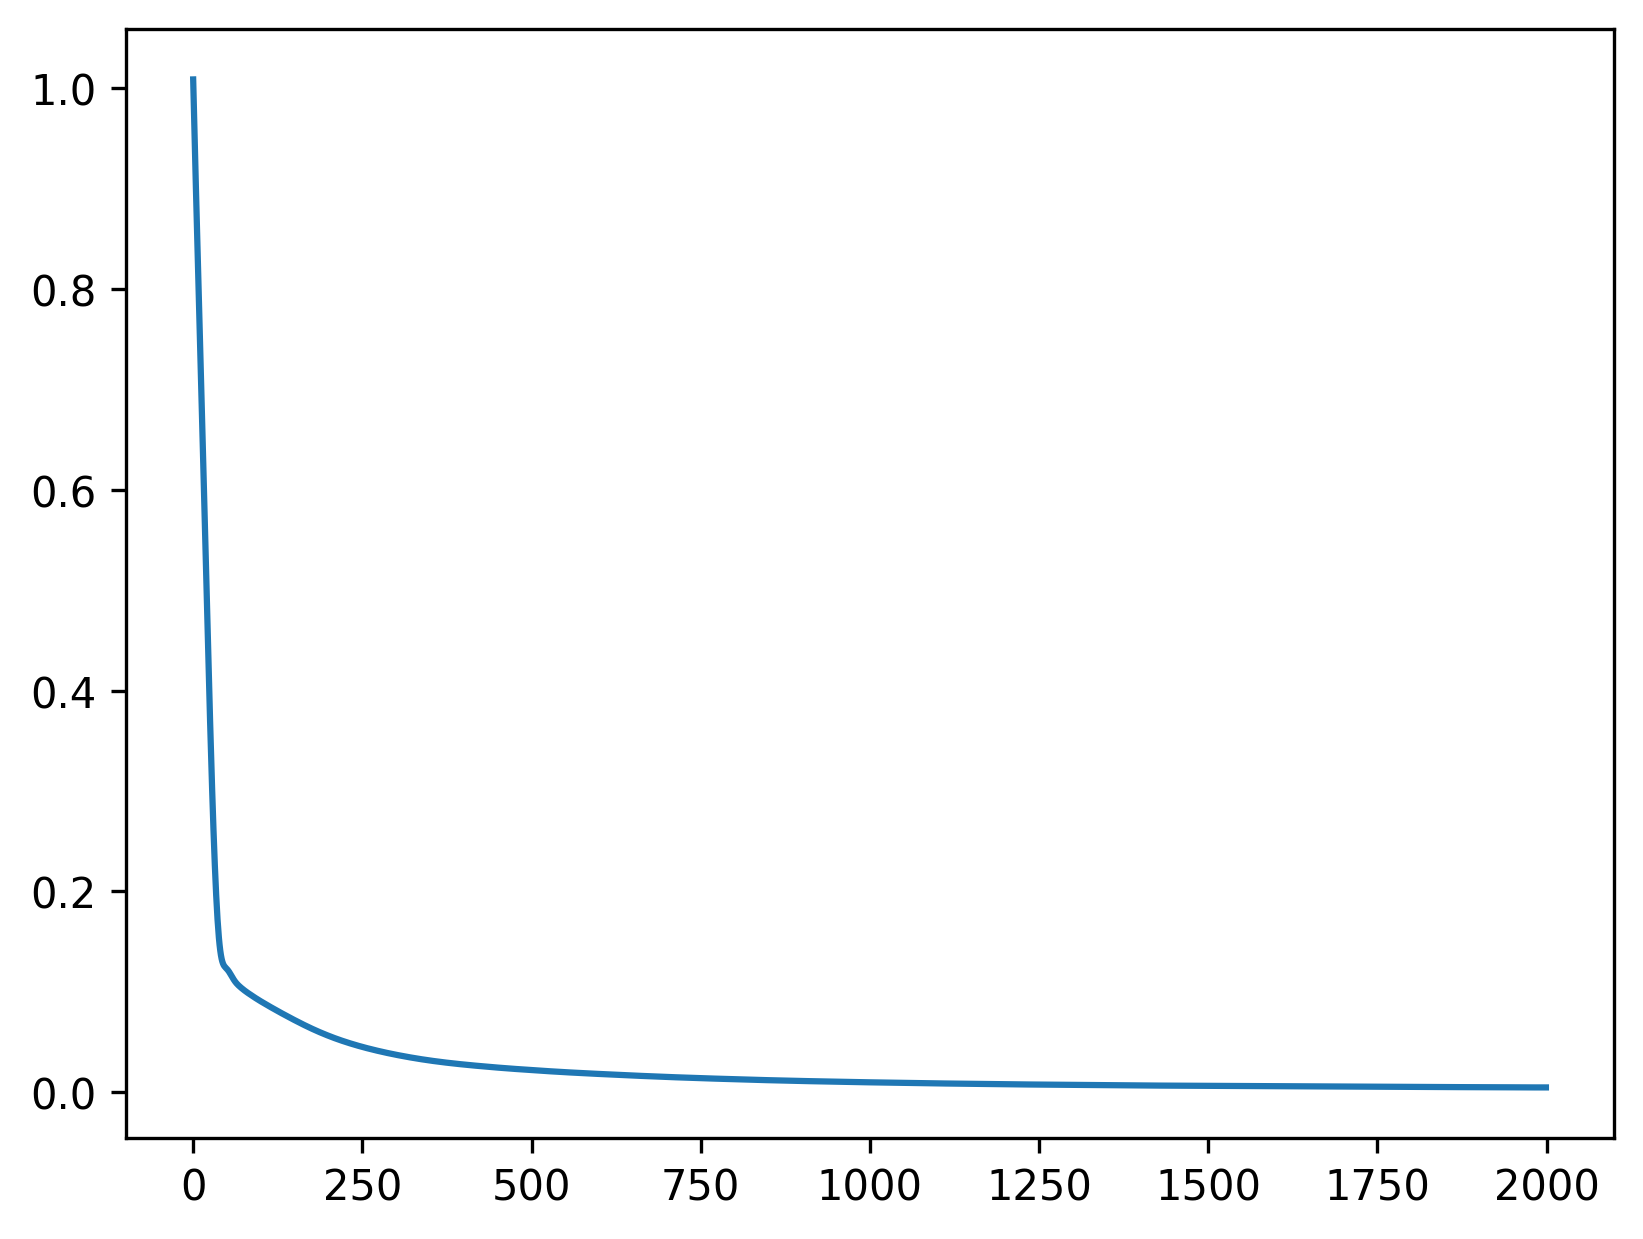
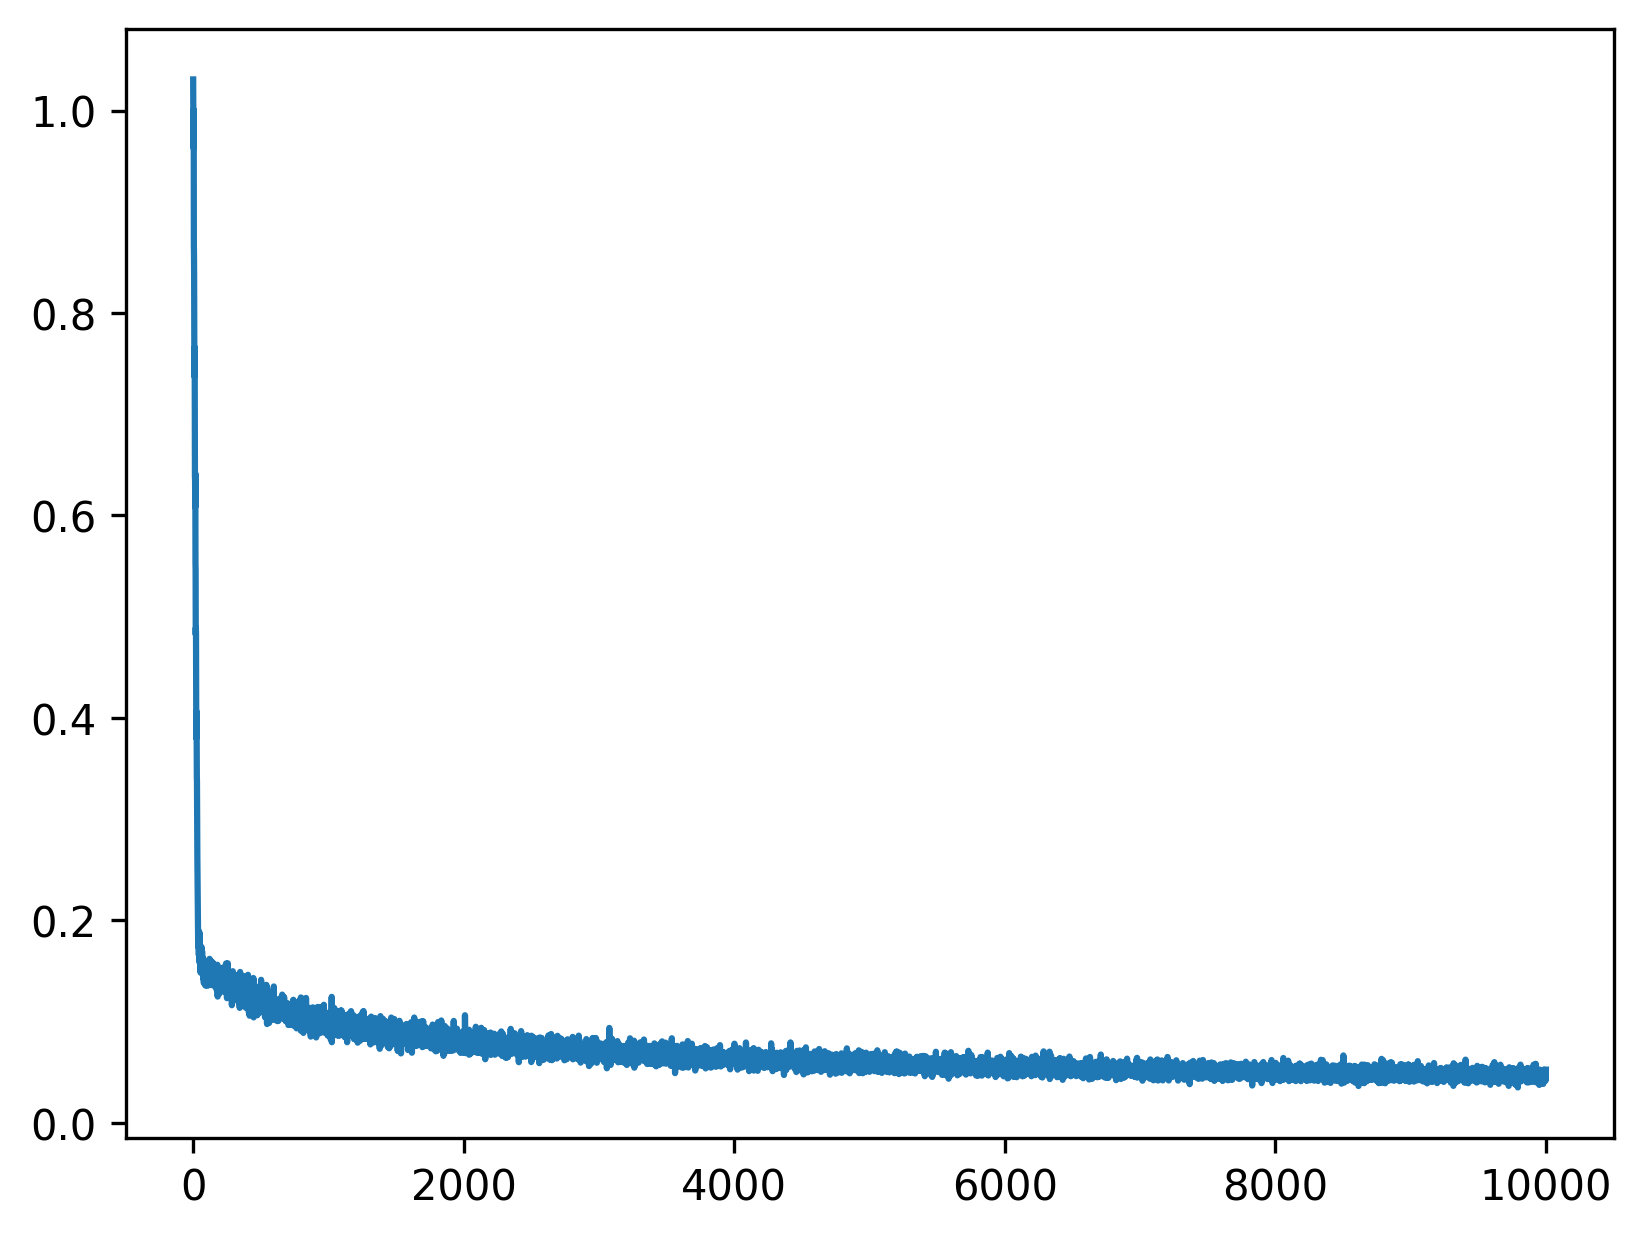
works 0.5 reward

diff --git a/hw1/src/hw1_imitation/train.py b/hw1/src/hw1_imitation/train.py
@@ -141,7 +141,7 @@ def run_training(config: TrainConfig) -> None:
     optimizer = torch.optim.Adam(params=model.parameters(), lr=config.lr, weight_decay=config.weight_decay)
     
     
-    num_steps = 2000
+    num_steps = 10_000
     print(f"training for {num_steps} steps which is {num_steps*config.batch_size} datapoints, {(num_steps*config.batch_size)/len(dataset)} epochs")
     
     
@@ -149,18 +149,16 @@ def run_training(config: TrainConfig) -> None:
     losses = []
     pbar = tqdm(total=num_steps)
     while step < num_steps:
-        for batch_idx, (state, action_chunk) in enumerate(loader):
+        for state, action_chunk in loader:
             if step >= num_steps:
                 break
-            # state, action_chunk = dataset[0]
-            # state, action_chunk = state.unsqueeze(0), action_chunk.unsqueeze(0)
-            state, action_chunk = next(iter(DataLoader(
-        dataset,
-        batch_size=config.batch_size,
-        shuffle=False,
-        drop_last=True,
-    )))
-            print(state[0,0], action_chunk[0,0,0])
+            # state, action_chunk = next(iter(DataLoader(
+            #     dataset,
+            #     batch_size=config.batch_size,
+            #     shuffle=False,
+            #     drop_last=True,
+            # )))
+            # print(state[0,0], action_chunk[0,0,0])
             state, action_chunk = state.to(device), action_chunk.to(device)
             optimizer.zero_grad()
             loss = model.compute_loss(state, action_chunk)
@@ -170,11 +168,12 @@ def run_training(config: TrainConfig) -> None:
             losses.append(loss.item())
             pbar.update(1)
             pbar.set_postfix(loss=f"{losses[-1]:8.4f}")
+            pbar.set_postfix(epoch=f"{step//len(loader):8d}")
             print(loss.item())
 
-            # if step % 10000 == 0: # eval every 100 steps
-            #     evaluate_policy(model=model, normalizer=normalizer, device=device, chunk_size=config.chunk_size, video_size=config.video_size, num_video_episodes=config.num_video_episodes, flow_num_steps=config.flow_num_steps, step=step, logger=logger)
-            #     print(np.mean(losses[-10000:]))
+            if step % config.eval_interval == 0: # eval every 1000 steps
+                evaluate_policy(model=model, normalizer=normalizer, device=device, chunk_size=config.chunk_size, video_size=config.video_size, num_video_episodes=config.num_video_episodes, flow_num_steps=config.flow_num_steps, step=step, logger=logger)
+                print("trianing loss:", np.mean(losses[-config.eval_interval:]))
     pbar.close()
     
     import matplotlib.pyplot as plt
